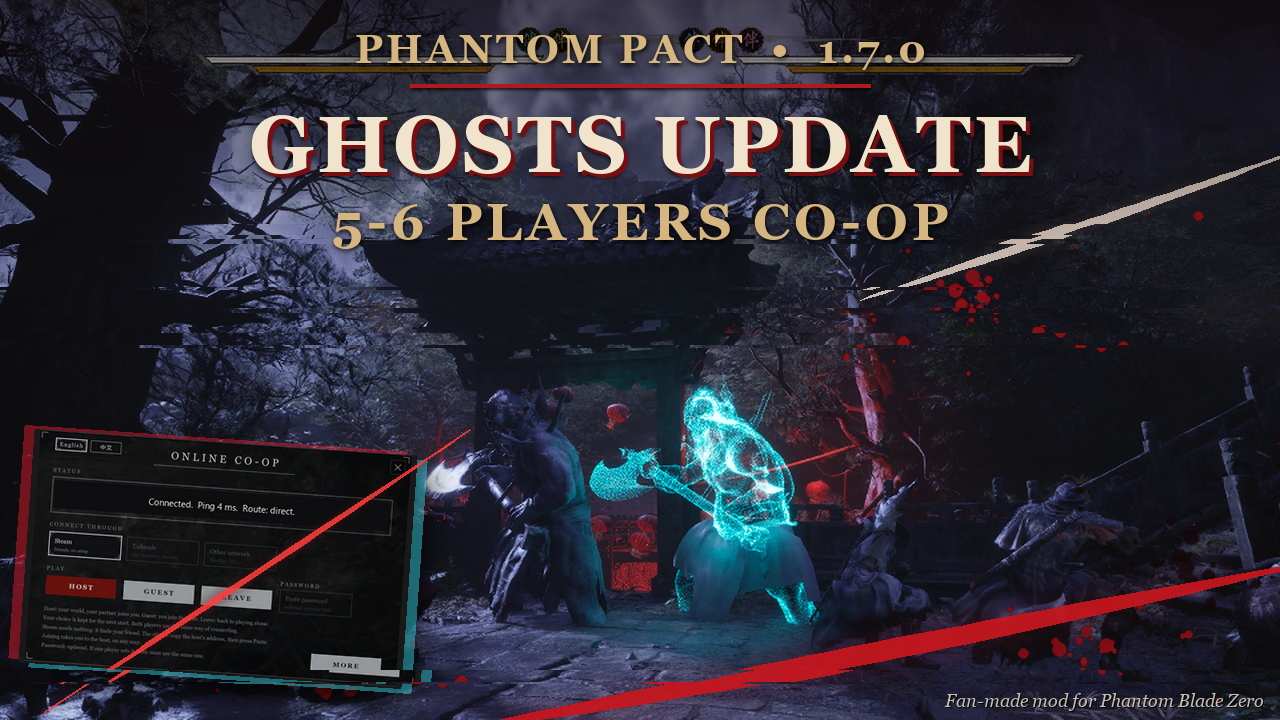
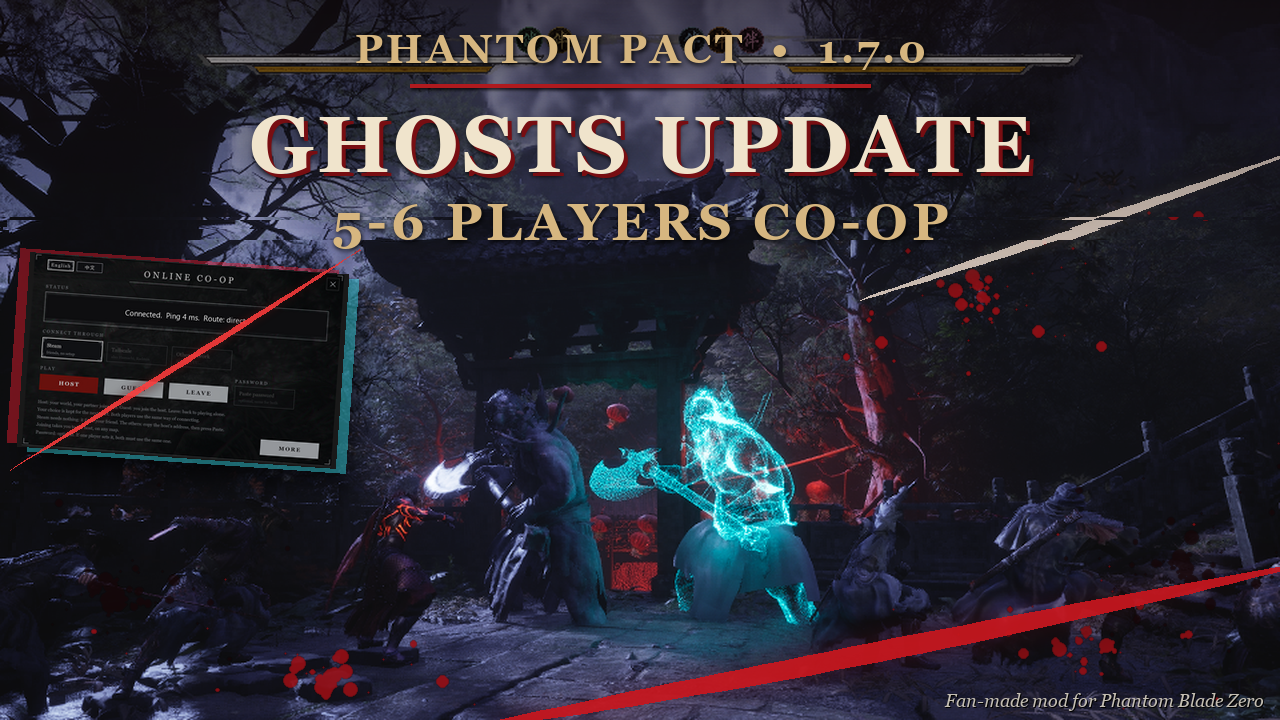
1.7.0 thumbnail: the panel up in the trees, small, so all six heroes show; no glitch over it

diff --git a/art/make_ghosts_thumb.py b/art/make_ghosts_thumb.py
@@ -97,9 +97,10 @@ def make_thumb(src):
     # The panel, thrown in between the two at a slight tilt, with a red/blue echo behind it (the user's pick:
     # "the slight rotate and bigger and glitchy").
     p = panel_image()
-    p = p.resize((int(p.width * 0.6), int(p.height * 0.6)), Image.LANCZOS)
+    # (Up in the trees on the left, small: lower down it hid the heroes on the left, and all six are the point.)
+    p = p.resize((int(p.width * 0.5), int(p.height * 0.5)), Image.LANCZOS)
     rot = p.rotate(-4, expand=True, resample=Image.BICUBIC)
-    px, py = 18, H - rot.height - 30
+    px, py = 16, 252
     shadow = Image.new("RGBA", (W, H), (0, 0, 0, 0))
     shadow.paste((0, 0, 0, 200), (px + 14, py + 18), rot.getchannel("A"))
     img = Image.alpha_composite(img, shadow.filter(ImageFilter.GaussianBlur(14)))
@@ -110,9 +111,9 @@ def make_thumb(src):
         img = Image.alpha_composite(img, echo)
     img.alpha_composite(rot, (px, py))
     # A thin cut through the panel itself, and the glitch over everything.
-    img = Image.alpha_composite(img, slash((W, H), (40, 715), (470, 430), 4, (255, 60, 60, 220)))
-    # (Clear of the panel's heading and its HOST / GUEST / LEAVE row, and of the two bosses.)
-    img = glitch_bands(img, rng, 9, keep=((430, 470), (560, 610), (380, 640)))
+    img = Image.alpha_composite(img, slash((W, H), (10, 470), (360, 250), 4, (255, 60, 60, 220)))
+    # (Clear of the panel's heading and its HOST / GUEST / LEAVE row, and of the heroes and bosses below.)
+    img = glitch_bands(img, rng, 9, keep=((240, 720),))
     # A soft darkening at the top, so the lettering reads on the bright fog.
     shade = Image.new("L", (1, H))
     for y in range(H):
